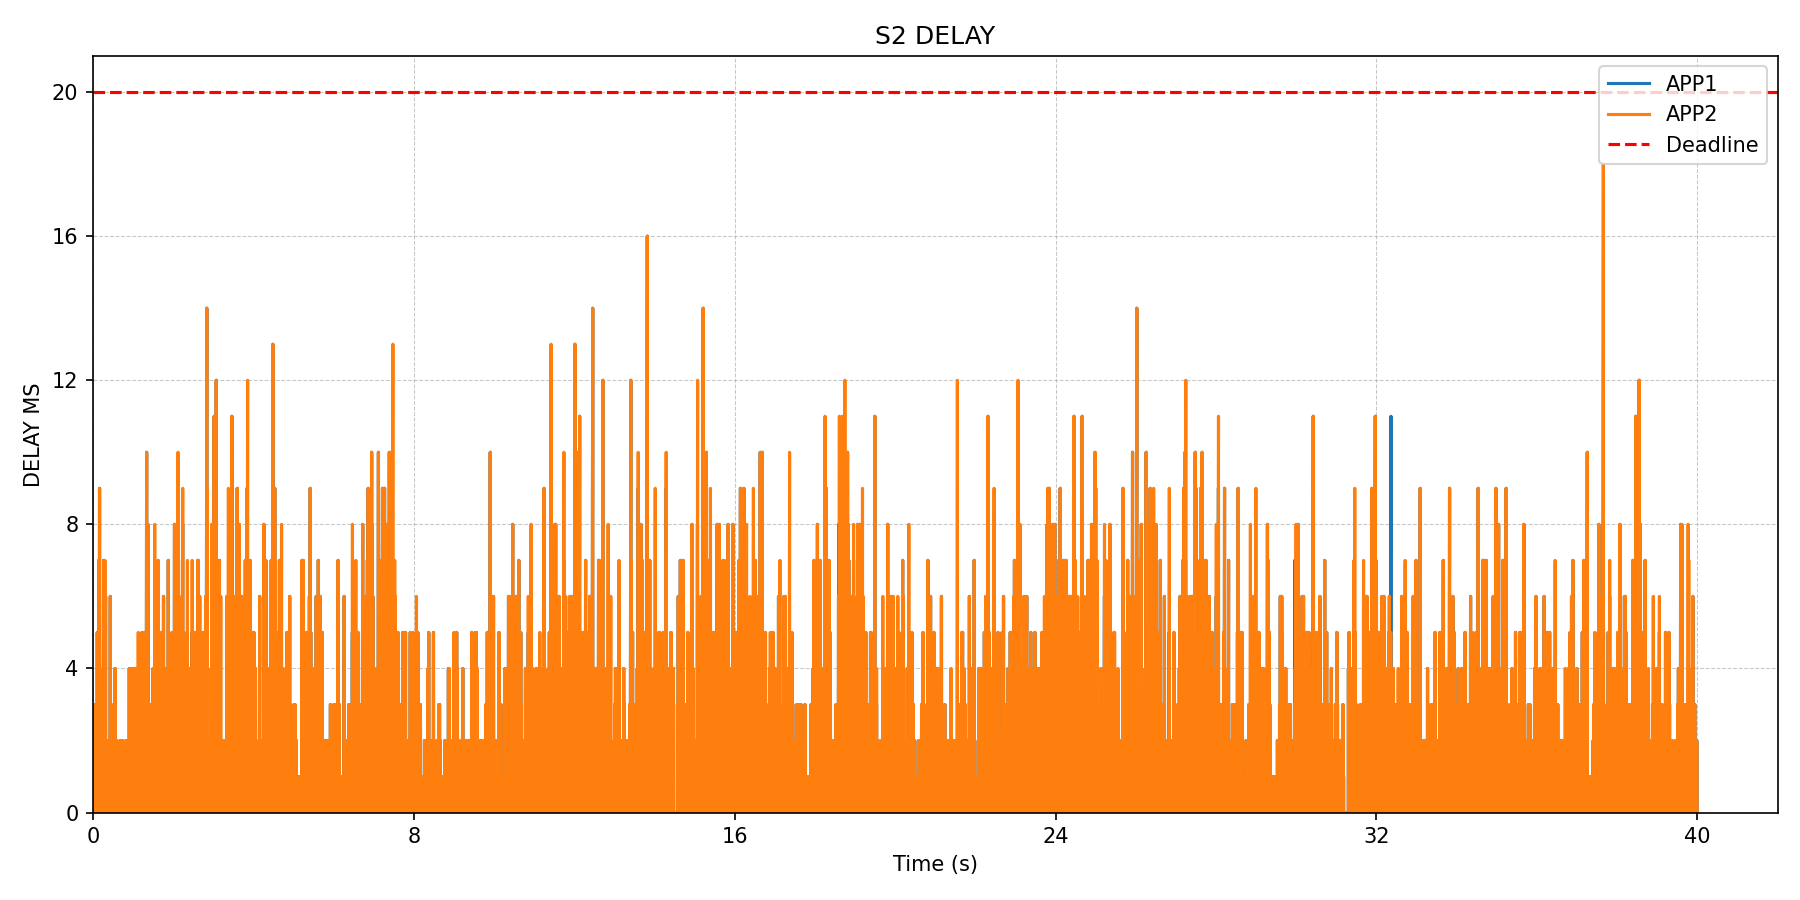
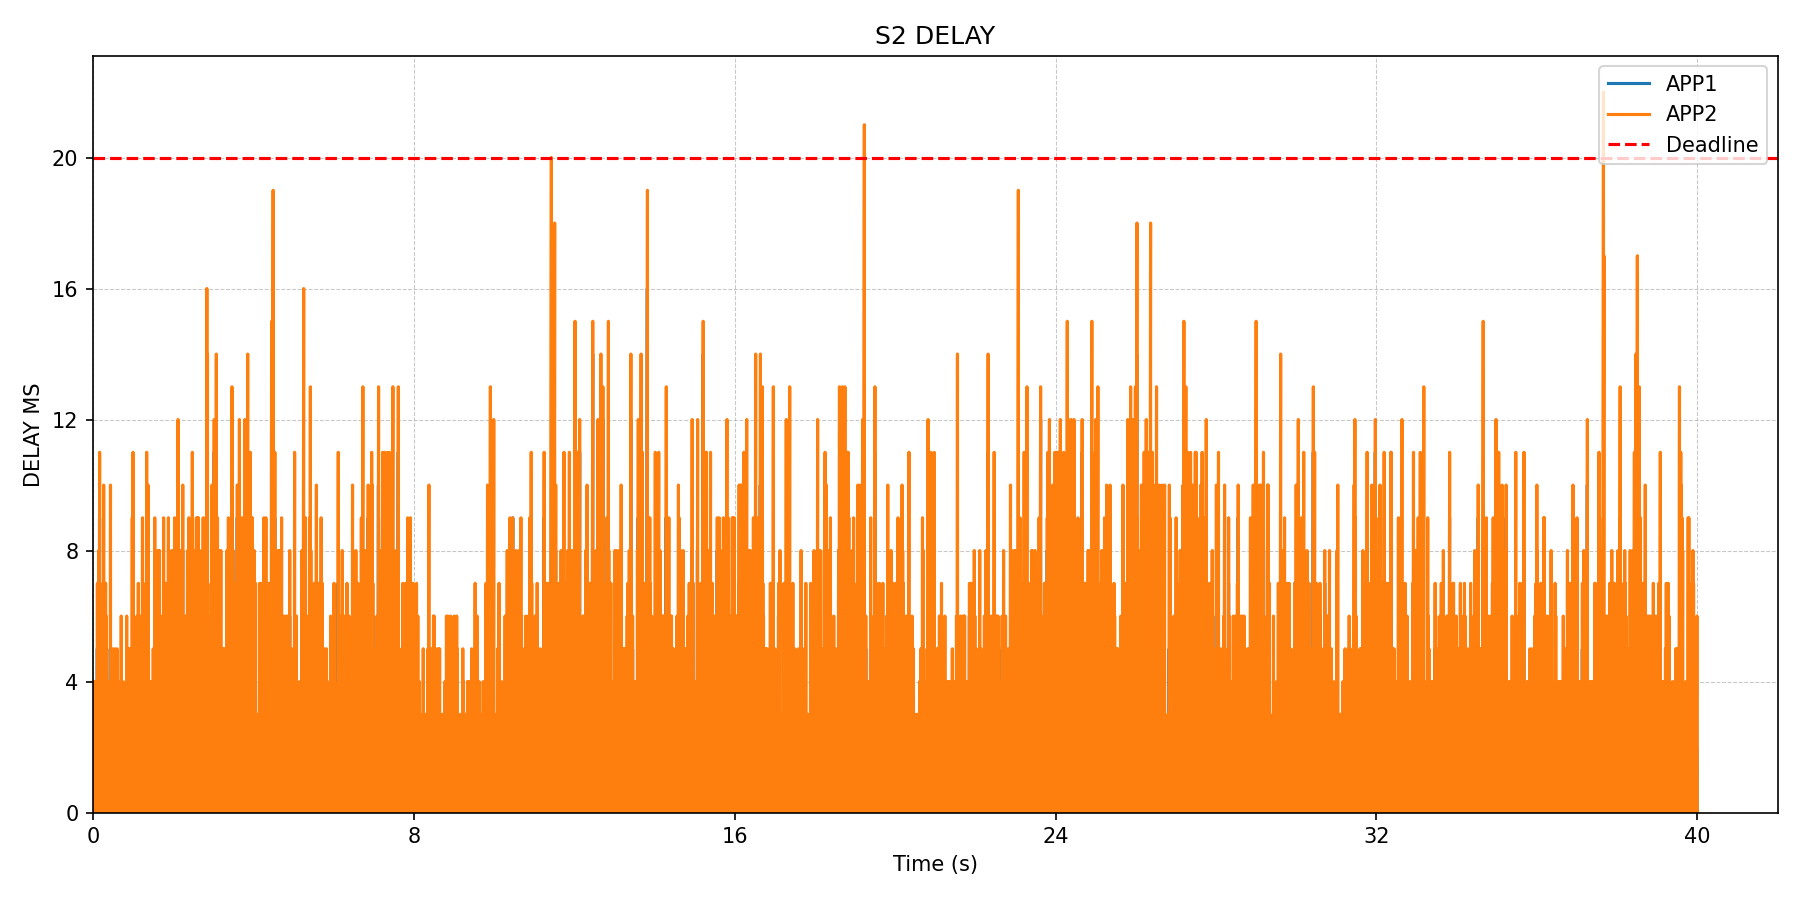
init

diff --git a/sim_sat_slice.py b/sim_sat_slice.py
@@ -27,7 +27,10 @@ DT_MS = 1  # TTI granularity = 1 ms
 T_SIM = 40_000  # 40 seconds
 WIN_TP = 100  # Throughput window (ms)
 WIN_P99 = 100  # Delay P99 window length
-RB_CAP = 260  # Available RB per TTI before jitter
+THROUGHPUT_THRESHOLD_MBPS = 8.0
+DELAY_THRESHOLD_MS = 60.0
+
+RB_CAP = 36  # Available RB per TTI before jitter
 B_R_MIN = 20e6  # Slice B minimum rate (bit/s)
 A_R_MIN = 24e6  # Slice A minimum rate (bit/s)
 PHI_REF_A = 800.0  # Reference spectral efficiency (bit/RB)
@@ -40,7 +43,7 @@ VR_FPS = 60
 VR_FRAME_MS = round(1000 / VR_FPS)  # ~17 ms
 VR_RATE_PER_APP = 12e6
 VR_JITTER = 0.15
-VR_DEADLINE = 20  # ms
+VR_DEADLINE = int(DELAY_THRESHOLD_MS)  # ms
 # Deterministic spectral efficiency multipliers for each VR app (1.0 = reference).
 # The defaults represent a mixed deployment with one high-quality and one
 # low-quality channel user. Specific scenarios can override this list to model
@@ -285,6 +288,7 @@ def render_line_chart(
     title: str,
     y_label: str,
     reference_line: Optional[float] = None,
+    reference_label: str = "Deadline",
 ) -> None:
     if plt is None:
         return
@@ -300,7 +304,13 @@ def render_line_chart(
         plotted_any = True
 
     if reference_line is not None:
-        ax.axhline(reference_line, color="red", linestyle="--", linewidth=1.5, label="Deadline")
+        ax.axhline(
+            reference_line,
+            color="red",
+            linestyle="--",
+            linewidth=1.5,
+            label=reference_label,
+        )
 
     ax.set_title(title)
     ax.set_xlabel("Time (s)")
@@ -328,6 +338,8 @@ def plot_throughput(metrics: Metrics, outfile: str, scenario_label: str) -> None
         outfile,
         title=f"{scenario_label} THROUGHPUT",
         y_label="THROUGHPUT MBPS",
+        reference_line=THROUGHPUT_THRESHOLD_MBPS,
+        reference_label="Threshold",
     )
 
 
@@ -347,6 +359,7 @@ def plot_delay(
         title=f"{scenario_label} DELAY",
         y_label=ylabel,
         reference_line=deadline,
+        reference_label="Threshold",
     )
 
 
@@ -421,7 +434,7 @@ def run_scenario(
         f"{save_prefix}_delay.png",
         scenario_label,
         delay_mode=delay_mode,
-        deadline=VR_DEADLINE if delay_mode == "head" else None,
+        deadline=DELAY_THRESHOLD_MS if delay_mode == "head" else None,
     )
 
     stats = {}
@@ -450,16 +463,20 @@ def main() -> None:
         channel_qualities=scenario4_qualities,
     )
 
-    target_mbps = VR_RATE_PER_APP / 1e6
+    target_mbps = THROUGHPUT_THRESHOLD_MBPS
 
-    print("Scenario S2 average throughput (Mbps):")
+    print(
+        f"Scenario S2 average throughput (Mbps) vs threshold {target_mbps:.1f}:"
+    )
     for idx, (name, value) in enumerate(scenario2_stats.items()):
         quality = scenario2_qualities[min(idx, len(scenario2_qualities) - 1)]
         meets_qos = value >= target_mbps
         status = "OK" if meets_qos else "VIOLATION"
         print(f"  {name} (quality={quality:.2f}): {value:.2f} -> {status}")
 
-    print("\nScenario S4 average throughput (Mbps):")
+    print(
+        f"\nScenario S4 average throughput (Mbps) vs threshold {target_mbps:.1f}:"
+    )
     for idx, (name, value) in enumerate(scenario4_stats.items()):
         quality = scenario4_qualities[min(idx, len(scenario4_qualities) - 1)]
         meets_qos = value >= target_mbps
